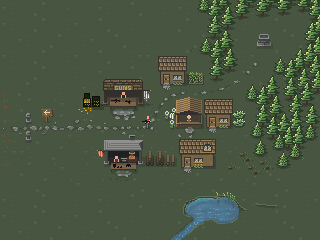
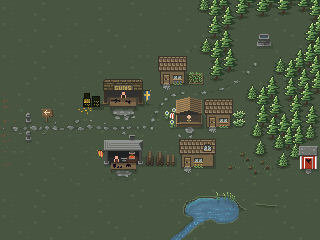
First version of shop GUI
- Added support for trigger colliders for checking when we can open a
specific shop gui.
- Added a popup hint for when the player can access the shop (including
sound effect)

Changed region(s): [[0.9375, 0.5833, 1.0, 0.7292], [0.4375, 0.3792, 0.4688, 0.4375], [0.4375, 0.4958, 0.4688, 0.525]]

diff --git a/src/com/andblomqdasberg/mooseinvasion/level/City.java b/src/com/andblomqdasberg/mooseinvasion/level/City.java
@@ -6,6 +6,7 @@ import java.util.ArrayList;
 import com.andblomqdasberg.mooseinvasion.Assets;
 import com.andblomqdasberg.mooseinvasion.GameManager;
 import com.andblomqdasberg.mooseinvasion.MooseInvasion;
+import com.andblomqdasberg.mooseinvasion.audio.AudioPlayer;
 import com.andblomqdasberg.mooseinvasion.collider.BoxCollider;
 import com.andblomqdasberg.mooseinvasion.collider.CollisionType;
 import com.andblomqdasberg.mooseinvasion.entity.Player;
@@ -14,7 +15,7 @@ import com.andblomqdasberg.mooseinvasion.gui.GUIImage;
 /**
  * 	The City where the player can buy upgrades
  * 
- * 	@author Anders
+ * 	@author Anders Blomqvist
  */
 public class City
 {
@@ -24,19 +25,19 @@ public class City
     // Colliders
     public ArrayList<BoxCollider> colliders = new ArrayList<BoxCollider>();
 	private CollisionType type;
-    
+	
+	// GUI
+	private GUIImage marketShopTrigger;
+	private GUIImage gunsShopTrigger;
+	private GUIImage blacksmithShopTrigger;
+	private GUIImage dassTrigger;
+	
 	public City() {
 		player = GameManager.sInstance.getPlayer();
 		
-		// The right pointing arrow
-		new GUIImage(
-				10, 
-				MooseInvasion.HEIGHT/2, 
-				Assets.sInstance.sprites[4][2],
-				"city-gui");
-		
+		// Colliders
 		colliders.add(new BoxCollider(83, 99, 21, 4));		// Ammo boxes
-		colliders.add(new BoxCollider(104, 91, 38, 7));		// Gun shop
+		colliders.add(new BoxCollider(104, 91, 38, 8));		// Gun shop
 		colliders.add(new BoxCollider(160, 71, 25, 6));		// Gun house
 		colliders.add(new BoxCollider(206, 0, 20, 76));		// Trees 1
 		colliders.add(new BoxCollider(226, 0, 12, 68));		// Trees 2
@@ -44,13 +45,42 @@ public class City
 		colliders.add(new BoxCollider(295, 0, 25, 57));		// Trees 3
 		colliders.add(new BoxCollider(273, 57, 47, 15));	// Trees 4
 		colliders.add(new BoxCollider(267, 72, 53, 14));	// Trees 5
-		colliders.add(new BoxCollider(246, 86, 74, 85));	// Trees 6
+		colliders.add(new BoxCollider(246, 86, 74, 75));	// Trees 6
 		colliders.add(new BoxCollider(206, 113, 25, 6));	// Market house
 		colliders.add(new BoxCollider(176, 113, 25, 6));	// Market shop
-		colliders.add(new BoxCollider(105, 151, 37, 9));	// BS shop
+		colliders.add(new BoxCollider(105, 148, 37, 13));	// BS shop
 		colliders.add(new BoxCollider(142, 158, 38, 3));	// Logs
 		colliders.add(new BoxCollider(181, 154, 33, 6));	// BS house
 		colliders.add(new BoxCollider(183, 194, 58, 28));	// Lake
+		
+		// Triggers
+		colliders.add(new BoxCollider(179, 121, 20, 8, true, "market"));
+		colliders.add(new BoxCollider(109, 99, 28, 10, true, "guns"));
+		colliders.add(new BoxCollider(110, 162, 26, 10,true, "blacksmith"));
+		colliders.add(new BoxCollider(300, 160, 17, 12,true, "dass"));
+		
+		// E image icons
+		marketShopTrigger = new GUIImage(188, 104, Assets.sInstance.sprites[4][4], "city-gui", () -> {
+			AudioPlayer.play("misc-popup.wav");
+		});
+		gunsShopTrigger = new GUIImage(123, 81, Assets.sInstance.sprites[4][4], "city-gui", () -> {
+			AudioPlayer.play("misc-popup.wav");
+		});
+		blacksmithShopTrigger = new GUIImage(116, 145, Assets.sInstance.sprites[4][4], "city-gui", () -> {
+			AudioPlayer.play("misc-popup.wav");
+		});
+		dassTrigger = new GUIImage(310, 145, Assets.sInstance.sprites[4][4], "city-gui", () -> {
+			AudioPlayer.play("misc-popup.wav");
+		});
+		marketShopTrigger.enable(false);
+		gunsShopTrigger.enable(false);
+		blacksmithShopTrigger.enable(false);
+		dassTrigger.enable(false);
+		
+		// The right pointing arrow
+		new GUIImage(10,MooseInvasion.HEIGHT/2, 
+				Assets.sInstance.sprites[4][2],
+				"city-gui");
 	}
 	
 	/**
@@ -59,6 +89,7 @@ public class City
 	 * 	@param ticks
 	 */
 	public void tick(int ticks) {
+		
 		if(player.x == 0) {
 			player.x = MooseInvasion.WIDTH-20;
 			GameManager.sInstance.leaveCity();
@@ -66,9 +97,11 @@ public class City
 		
 		// Check collisions with player
 		for(BoxCollider c : colliders) {
-			type = c.AABBCollision(player);
-			if(c.colliding) {
-				player.onCollisionEnter(type);
+			if((type = c.AABBCollision(player)) != CollisionType.NONE) {
+				if(c.trigger)
+					player.onTriggerEnter(c.tag);
+				else
+					player.onCollisionEnter(type);
 			}
 		}
 	}
@@ -77,31 +110,46 @@ public class City
 	 * 	Render city background image
 	 */
 	public void render(Graphics g) {
-		g.drawImage(Assets.sInstance.city,
-				0,
-				0,
+		g.drawImage(Assets.sInstance.city,0,0,
+				MooseInvasion.RENDER_WIDTH,
+				MooseInvasion.RENDER_HEIGHT,
+				null);
+	}
+
+	/**
+	 * 	Render city top
+	 */
+	public void renderTop(Graphics g) {
+		g.drawImage(Assets.sInstance.city_top,0,0,
 				MooseInvasion.RENDER_WIDTH,
 				MooseInvasion.RENDER_HEIGHT,
 				null);
 		
-        // Render GUI elements
+		// Render GUI elements
         for(int i = 0; i < GameManager.sInstance.guiCity.size(); i++)
         	GameManager.sInstance.guiCity.get(i).render(g);
 	}
-
-	public void renderTop(Graphics g) {
-		g.drawImage(Assets.sInstance.city_top,
-				0,
-				0,
-				MooseInvasion.RENDER_WIDTH,
-				MooseInvasion.RENDER_HEIGHT,
-				null);
-		 
-		/**
-         * 	Debug render
-        
-        for(BoxCollider c : colliders)
-        	c.render(g);
-    	*/
+	
+	/**
+	 * 	Called when player enters a shop trigger
+	 * 
+	 * 	@param shop trigger tag
+	 * 	@param state set GUI on or off
+	 */
+	public void shopTrigger(String tag, boolean state) {
+		switch(tag) {
+    		case "market":
+    			marketShopTrigger.enable(state);
+    			break;
+    		case "guns":
+    			gunsShopTrigger.enable(state);
+    			break;
+    		case "blacksmith":
+    			blacksmithShopTrigger.enable(state);
+    			break;
+    		case "dass":
+    			dassTrigger.enable(state);
+    			break;
+    	}
 	}
 }

diff --git a/src/com/andblomqdasberg/mooseinvasion/collider/BoxCollider.java b/src/com/andblomqdasberg/mooseinvasion/collider/BoxCollider.java
@@ -14,14 +14,40 @@ import com.andblomqdasberg.mooseinvasion.entity.Player;
 public class BoxCollider {
 
 	public int x, y, width, height;
+	public boolean trigger;
+	public String tag;
 	
 	public boolean colliding = false;
 	
+	/**
+	 * 	Default constructor
+	 * 
+	 * 	@param x
+	 * 	@param y
+	 * 	@param width
+	 * 	@param height
+	 */
 	public BoxCollider(int x, int y, int width, int height) {
 		this.x = x;
 		this.y = y;
 		this.width = width;
 		this.height = height;
+	}
+	
+	/**
+	 * 	Trigger, need to specify a unique tag aswell
+	 * 
+	 * 	@param x
+	 * 	@param y
+	 * 	@param width
+	 * 	@param height
+	 * 	@param trigger
+	 * 	@param tag Identity of this trigger
+	 */
+	public BoxCollider(int x, int y, int width, int height, boolean trigger, String tag) {
+		this(x, y, width, height);
+		this.trigger = trigger;
+		this.tag = tag;
 	}
 
 	/**
@@ -32,11 +58,19 @@ public class BoxCollider {
 	 * 	@return collition type enum for what side
 	 */
 	public CollisionType AABBCollision(Player p) {
+		
+		// Do AABB detect
 		if(this.x <= p.getColX() + p.width && this.x + width >= p.getColX() &&
 			this.y <= p.getColY() + p.height && this.y + height >= p.getColY()) {
 			
+			// We are now colliding
 			colliding = true;
 			
+			// Leave if we are a trigger
+			if(trigger)
+				return CollisionType.TRIGGER;
+			
+			// Check at which side the collision happen
 			if(p.getColX() <= this.x - p.width + 2)
 				return CollisionType.WEST;
 			
@@ -52,8 +86,13 @@ public class BoxCollider {
 			return CollisionType.NONE;
 				
 		} else {
+			// If this collider have been in a collision this will be true
+			// which means a player have left
 			if(colliding) {
-				p.onCollisionExit();
+				if(trigger)
+					p.onTriggerExit(tag);
+				else
+					p.onCollisionExit();
 				colliding = false;
 			}
 			return CollisionType.NONE;

diff --git a/src/com/andblomqdasberg/mooseinvasion/gui/GUIImage.java b/src/com/andblomqdasberg/mooseinvasion/gui/GUIImage.java
@@ -5,11 +5,30 @@ import java.awt.image.BufferedImage;
 
 import com.andblomqdasberg.mooseinvasion.MooseInvasion;
 
+/**
+ * 	Single image GUI
+ * 
+ * 	@author Anders Blomqvist
+ */
 public class GUIImage extends AbstractGUI
 {
 	public float x, y;
 	public BufferedImage img;
+	
+	public GUIImage.IEnabled action;
+	
+	public interface IEnabled {
+		void onEnabled();
+	}
 
+	/**
+	 * 	Create a new single imge GUI
+	 * 
+	 * 	@param x
+	 * 	@param y
+	 * 	@param img
+	 * 	@param listName "city-gui", "player-gui" or "level-gui"
+	 */
 	public GUIImage(float x, float y, BufferedImage img, String listName) {
 		super(listName);
 		this.x = x;
@@ -17,6 +36,22 @@ public class GUIImage extends AbstractGUI
 		this.img = img;
 	}
 	
+	/**
+	 * 	Create a new single imge GUI with action
+	 * 
+	 * 	@param x
+	 * 	@param y
+	 * 	@param img
+	 * 	@param listName "city-gui", "player-gui" or "level-gui"
+	 */
+	public GUIImage(float x, float y, BufferedImage img, String listName, GUIImage.IEnabled action) {
+		super(listName);
+		this.x = x;
+		this.y = y;
+		this.img = img;
+		this.action = action;
+	}
+
 	@Override
 	public void render(Graphics g) {
 		if(!enabled)
@@ -26,5 +61,12 @@ public class GUIImage extends AbstractGUI
                 MooseInvasion.SPRITE_X_SIZE*MooseInvasion.X_SCALE,
                 MooseInvasion.SPRITE_Y_SIZE*MooseInvasion.Y_SCALE,
                 null);
+	}
+	
+	@Override
+	public void enable(boolean state) {
+		if(!enabled && state)
+			action.onEnabled();
+		super.enable(state);
 	}
 }

diff --git a/src/com/andblomqdasberg/mooseinvasion/entity/Player.java b/src/com/andblomqdasberg/mooseinvasion/entity/Player.java
@@ -5,6 +5,7 @@ import java.awt.Graphics;
 import java.util.ArrayList;
 
 import com.andblomqdasberg.mooseinvasion.Assets;
+import com.andblomqdasberg.mooseinvasion.GameManager;
 import com.andblomqdasberg.mooseinvasion.InputHandler;
 import com.andblomqdasberg.mooseinvasion.MooseInvasion;
 import com.andblomqdasberg.mooseinvasion.audio.AudioPlayer;
@@ -296,7 +297,6 @@ public class Player extends Entity {
 	 * 	@param type Where the collision happen
 	 */
 	public void onCollisionEnter(CollisionType type) {
-		System.out.println(type);
 		switch(type) {
     		case NORTH:
     			moveSouth = false;
@@ -328,7 +328,25 @@ public class Player extends Entity {
 		moveSouth = true;
 		moveEast = true;
 		moveWest = true;
-		System.out.println("Left a collider");
+	}
+	
+
+	/**
+	 * 	Called when players enters a trigger collider
+	 * 
+	 * 	@param tag name of the trigger
+	 */
+	public void onTriggerEnter(String tag) {
+		GameManager.sInstance.city.shopTrigger(tag, true);
+	}
+	
+	/**
+	 * 	Called when player leaves a trigger
+	 * 
+	 * 	@param tag name of the trigger
+	 */
+	public void onTriggerExit(String tag) {
+		GameManager.sInstance.city.shopTrigger(tag, false);
 	}
 	
 	/**

diff --git a/src/com/andblomqdasberg/mooseinvasion/GameManager.java b/src/com/andblomqdasberg/mooseinvasion/GameManager.java
@@ -61,7 +61,7 @@ public class GameManager {
     private ScreenSettings settingsScreen;
     private LevelLoader levelLoader;
     private Level level;
-    private City city;
+    public City city;
     
     private GUIText healthText;
     

diff --git a/src/com/andblomqdasberg/mooseinvasion/gui/AbstractGUI.java b/src/com/andblomqdasberg/mooseinvasion/gui/AbstractGUI.java
@@ -36,6 +36,7 @@ public abstract class AbstractGUI {
 			GameManager.sInstance.guiPlayer.add(this);
 		else
 			System.out.println("Failed to add GUI into list: " + listName);
+		
 		enabled = true;
 	}
 	

diff --git a/src/com/andblomqdasberg/mooseinvasion/collider/CollisionType.java b/src/com/andblomqdasberg/mooseinvasion/collider/CollisionType.java
@@ -5,5 +5,6 @@ public enum CollisionType {
 	SOUTH,
 	EAST,
 	WEST,
+	TRIGGER,
 	NONE
 }
